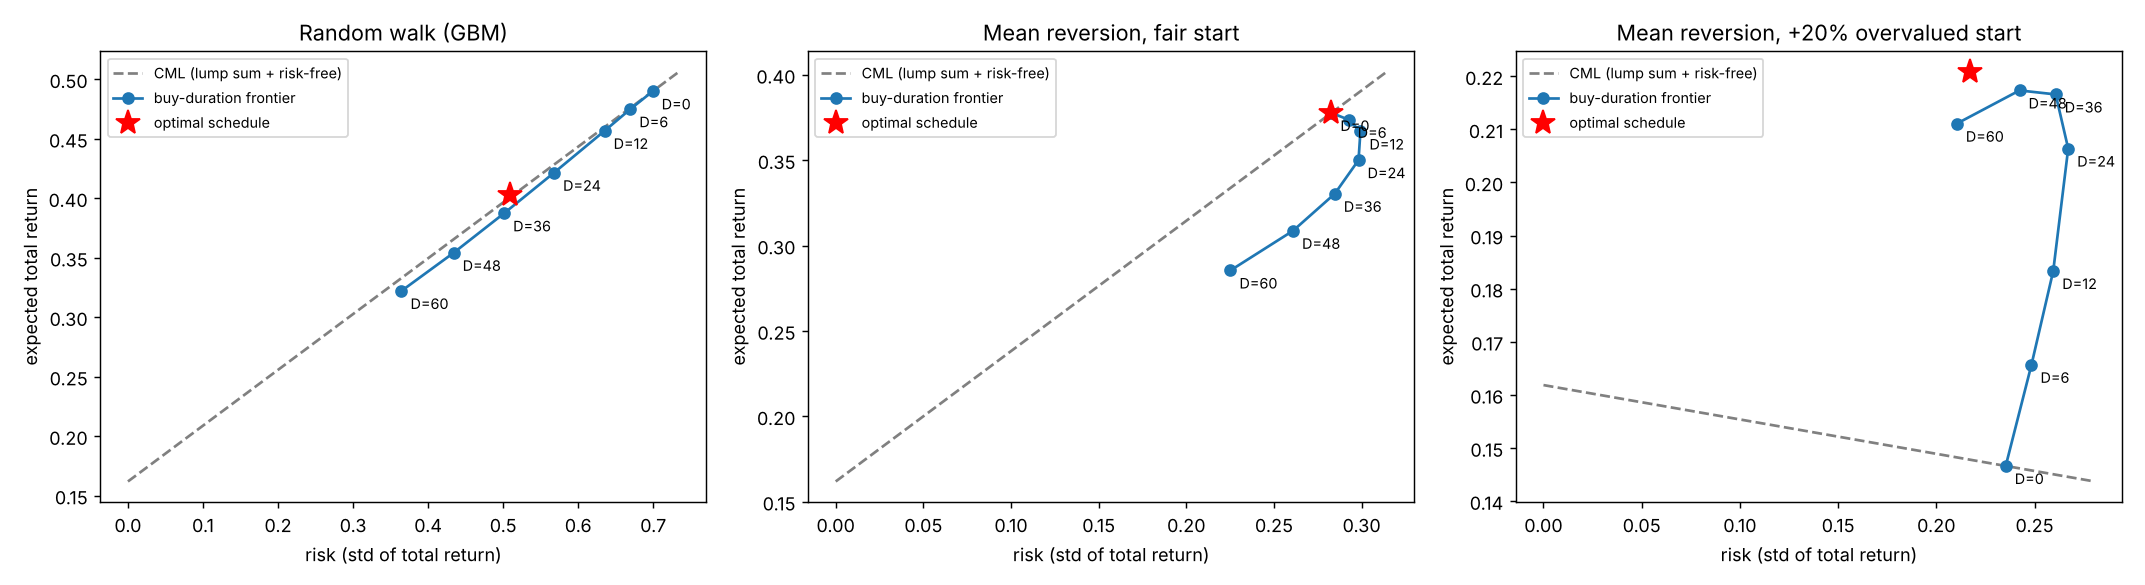
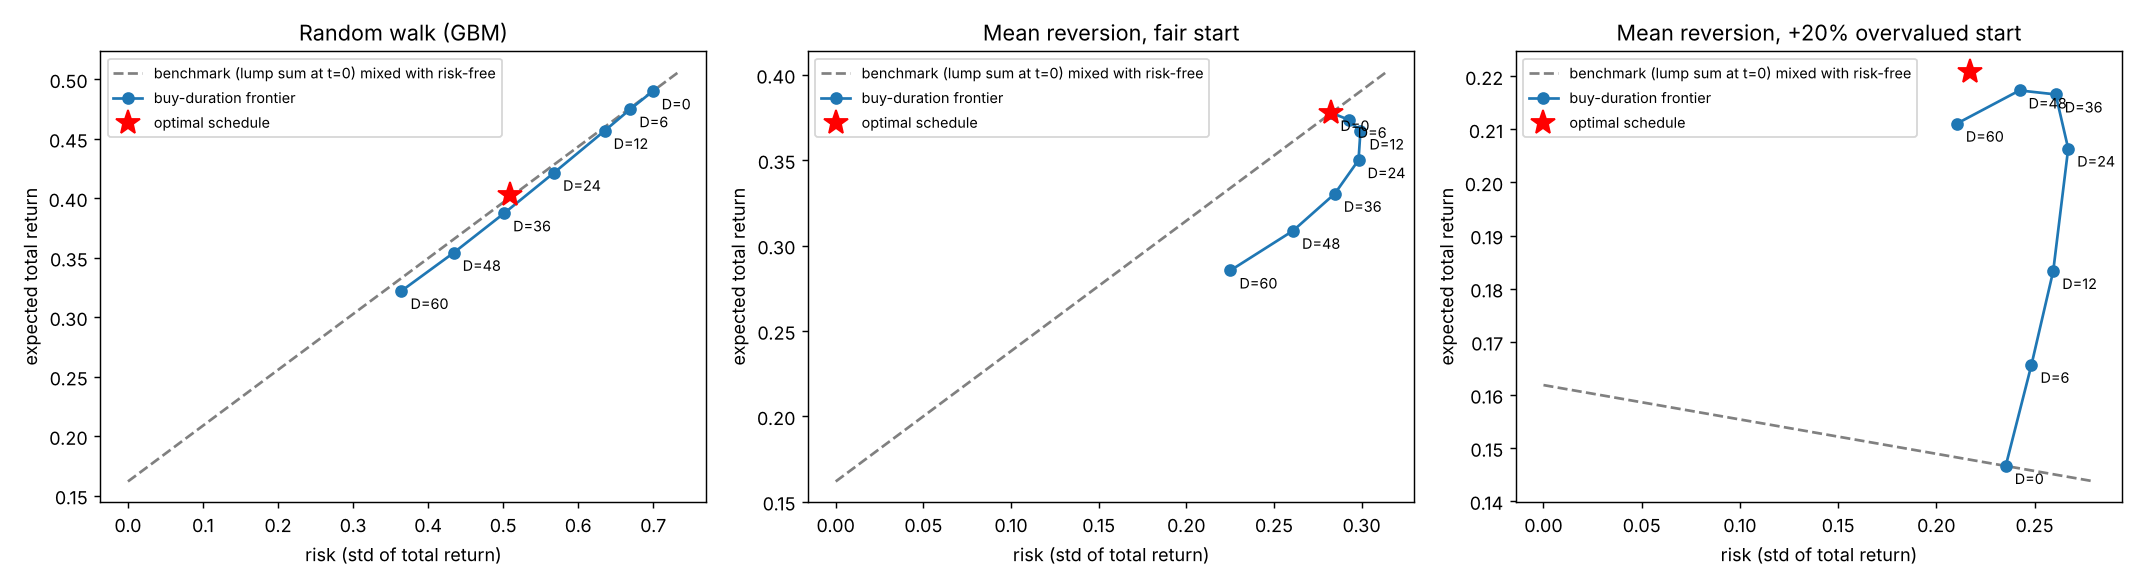
기준군을 0시점 예산 100 전액매수로 명시하고 비교군 지표 추가
Claude-Session: https://claude.ai/code/session_01JDHZLRT4NWJjMqz8P9ognu

diff --git a/buy_duration.py b/buy_duration.py
@@ -1,9 +1,10 @@
 """매수듀레이션(Buy Duration) 이론 시뮬레이션.
 
 설정
-- 동일 종목, 동일 예산 B=1, 동일 투자기간 T.
+- 동일 종목, 동일 예산 100, 동일 투자기간 T.
+- 기준군: 0시점에 예산 100 전액 매수.
+- 비교군: 그 외의 매수 일정. 아직 매수하지 않은 예산은 무위험채권에 둔다.
 - 매수듀레이션 D: 예산을 [0, D) 구간에 걸쳐 균등 분할 매수한다 (D=0 이면 일시 매수).
-- 아직 매수하지 않은 현금은 무위험채권(연 r)에 둔다.
 - 성과는 만기 T 시점의 총수익률 R = W_T / B - 1 의 (위험=표준편차, 기대수익률)로 평가한다.
 
 비교 대상
@@ -22,6 +23,7 @@ MONTHS = 60          # 투자기간 T = 5년 (월 단위)
 DT = 1 / 12
 MU, SIGMA, RF = 0.08, 0.20, 0.03   # 연 기대수익률, 변동성, 무위험이자율
 N_PATHS = 200_000
+BUDGET = 100       # 예산
 DURATIONS = [0, 6, 12, 24, 36, 48, 60]   # 매수듀레이션 (개월). 0 = 일시 매수
 
 
@@ -59,6 +61,7 @@ def duration_weights(d):
 
 
 def stats(wealth):
+    """wealth: 예산 1 기준 만기 자산. (기대수익률, 위험, 샤프)를 돌려준다."""
     rf_total = np.exp(RF * DT * MONTHS) - 1
     r = wealth - 1
     mean, std = r.mean(), r.std()
@@ -85,31 +88,39 @@ def tangency_schedule(x):
 
 
 def run(label, **model):
+    """기준군(0시점에 예산 전액 매수)과 비교군(분할 매수 + 잔여 예산은 무위험채권)을 비교."""
     rng = np.random.default_rng(0)
     x = timing_assets(simulate_prices(rng, **model))
     rf_total = np.exp(RF * DT * MONTHS) - 1
 
     print(f"\n=== {label} ===")
-    print(f"무위험 총수익률({MONTHS}개월): {rf_total:6.2%}")
-    print(f"{'전략':<22}{'기대수익':>9}{'위험':>9}{'샤프':>8}{'동일위험 CML 대비':>18}")
+    print(f"예산 {BUDGET}, 전액 무위험채권일 때 만기 자산: {BUDGET * (1 + rf_total):.1f}")
+    print(f"{'전략':<22}{'기대만기자산':>8}{'위험':>8}{'샤프':>8}"
+          f"{'기준군 대비':>10}{'기준군 이길 확률':>12}{'위험조정 초과':>10}")
 
-    lump_mean, lump_std, lump_sharpe = stats(x @ duration_weights(0))
-    rows = [(f"D={d:>2}개월" if d else "D= 0 (일시매수)", duration_weights(d)) for d in DURATIONS]
+    base = x @ duration_weights(0)          # 기준군: 0시점 전액 매수
+    base_mean, base_std, base_sharpe = stats(base)
+    rows = [("기준군: 0시점 전액매수", duration_weights(0))]
+    rows += [(f"비교군: D={d:>2}개월", duration_weights(d)) for d in DURATIONS[1:]]
     w_opt = tangency_schedule(x)
-    rows.append(("최적 매수일정(접점)", w_opt))
+    rows.append(("비교군: 최적 매수일정", w_opt))
 
     points = []
     for name, w in rows:
-        mean, std, sharpe = stats(x @ w)
-        # 같은 위험을 지는 CML 위의 점 (t=0 에 일부만 일시매수) 대비 초과 기대수익
-        vs_cml = mean - (rf_total + lump_sharpe * std)
-        print(f"{name:<22}{mean:>9.2%}{std:>9.2%}{sharpe:>8.3f}{vs_cml:>+17.2%}")
+        wealth = x @ w
+        mean, std, sharpe = stats(wealth)
+        diff = BUDGET * (mean - base_mean)                  # 기대 만기자산 차이
+        win = (wealth > base).mean()                        # 기준군보다 만기자산이 큰 경로 비율
+        # 같은 위험을 지도록 기준군을 무위험채권과 섞었을 때 대비 초과 기대자산
+        adj = BUDGET * (mean - (rf_total + base_sharpe * std))
+        print(f"{name:<22}{BUDGET * (1 + mean):>12.1f}{BUDGET * std:>10.1f}{sharpe:>10.3f}"
+              f"{diff:>+13.1f}{win:>17.1%}{adj:>+15.1f}")
         points.append((name, mean, std))
 
     top = np.argsort(w_opt)[::-1][:5]
     desc = ", ".join(f"{t}개월차 {w_opt[t]:.0%}" for t in sorted(top) if w_opt[t] > 0.01)
     print(f"최적 매수일정의 주요 매수 시점: {desc}")
-    return points, (rf_total, lump_sharpe)
+    return points, (rf_total, base_sharpe)
 
 
 def plot(results, path="buy_duration_frontier.png"):
@@ -122,7 +133,7 @@ def plot(results, path="buy_duration_frontier.png"):
         dur = points[:-1]
         stds = [p[2] for p in dur]
         ax.plot([0, max(stds) * 1.05], [rf_total, rf_total + lump_sharpe * max(stds) * 1.05],
-                "--", color="gray", label="CML (lump sum + risk-free)")
+                "--", color="gray", label="benchmark (lump sum at t=0) mixed with risk-free")
         ax.plot(stds, [p[1] for p in dur], "o-", label="buy-duration frontier")
         for d, p in zip(DURATIONS, dur):
             ax.annotate(f"D={d}", (p[2], p[1]), textcoords="offset points", xytext=(5, -10), fontsize=8)
